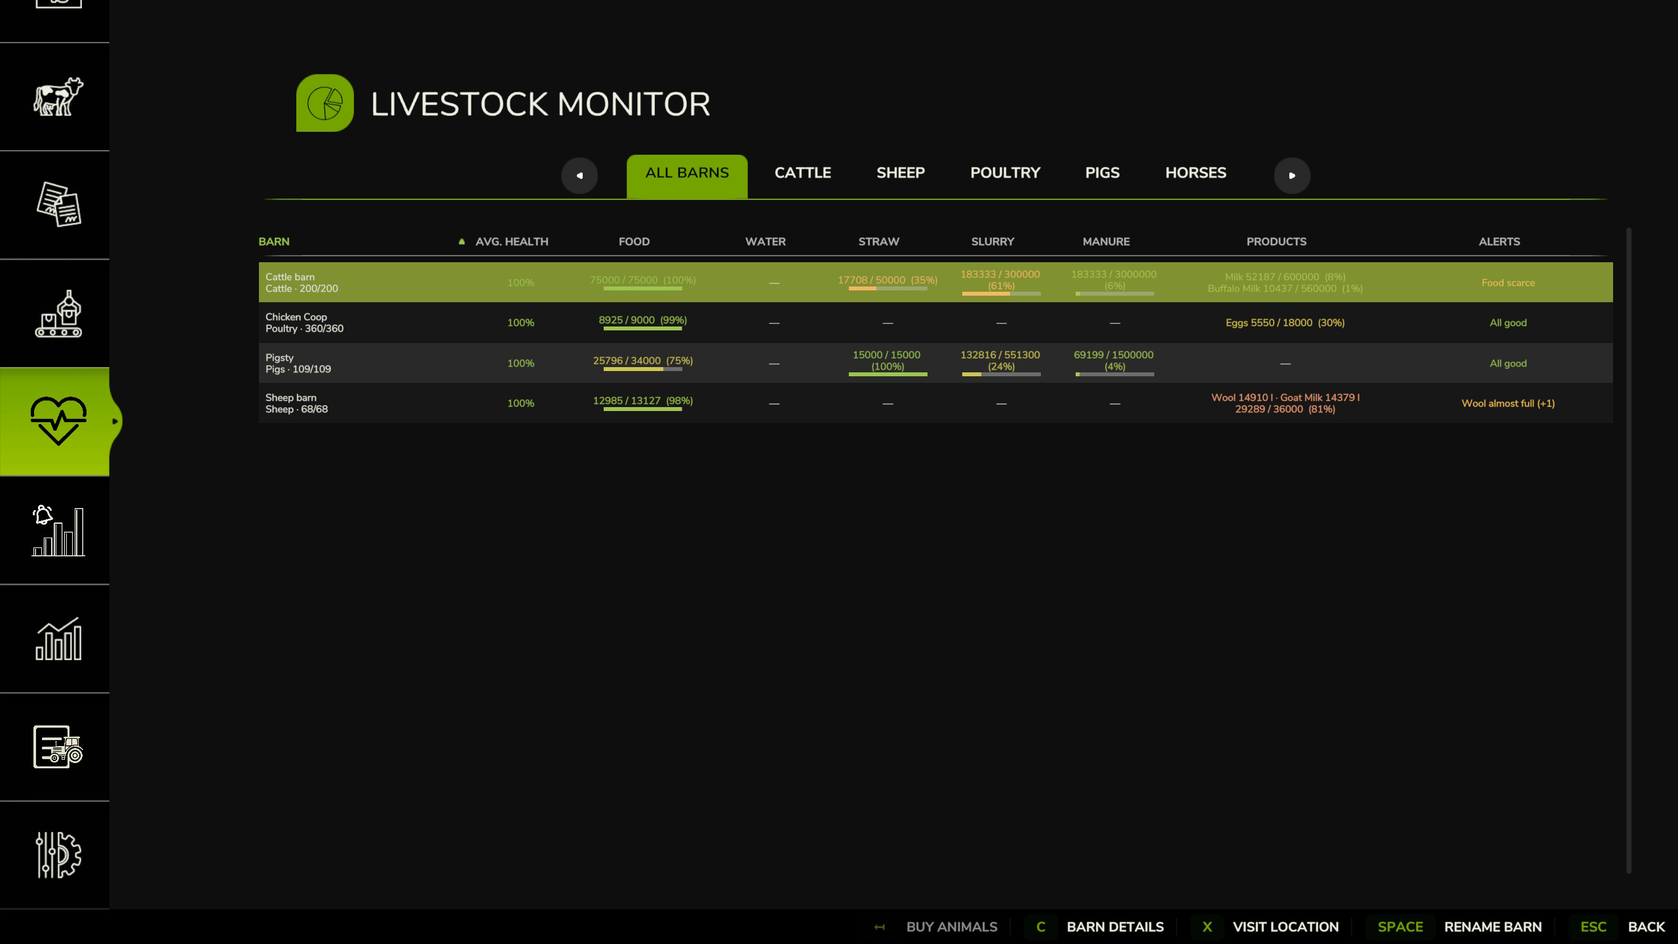
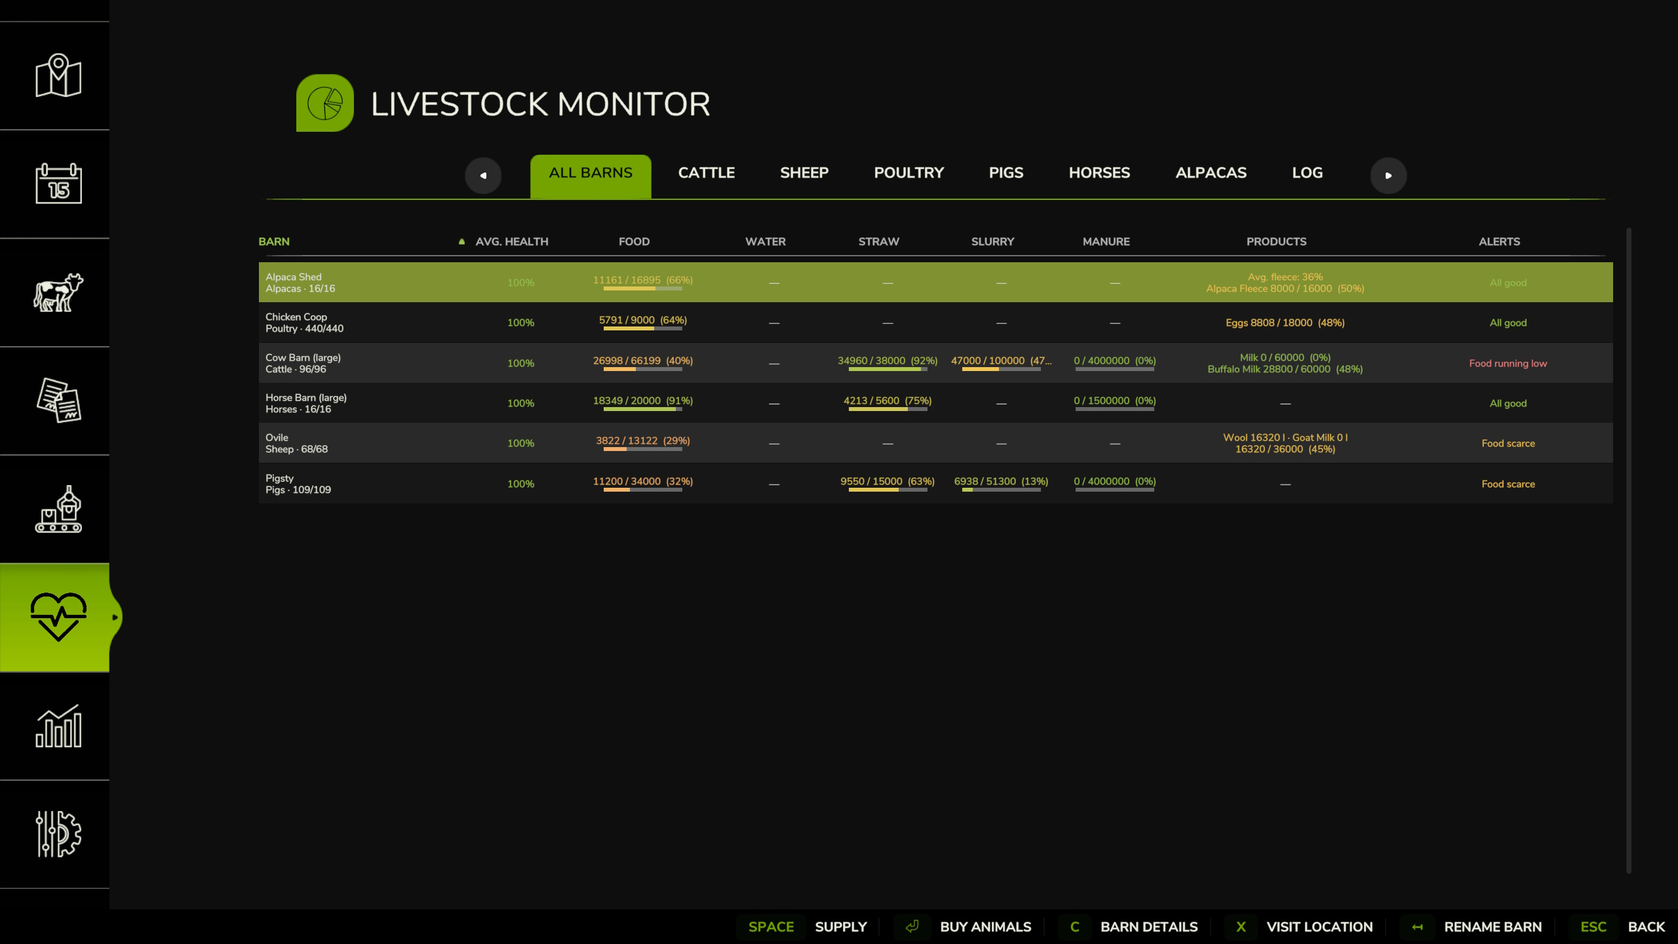
Update Livestock Monitor to v1.1.0.0 on website

diff --git a/livestockmonitor.html b/livestockmonitor.html
@@ -18,7 +18,7 @@
 <link rel="canonical" href="https://r3d3nt0r3.github.io/redentore-fs25-mods/livestockmonitor.html">
 <link href="https://fonts.googleapis.com/css2?family=Rajdhani:wght@400;600;700&family=Share+Tech+Mono&family=Exo+2:wght@300;400;600&display=swap" rel="stylesheet">
 <script type="application/ld+json">
-{"@context":"https://schema.org","@type":"SoftwareApplication","name":"Livestock Monitor FS25 Mod","operatingSystem":"Windows, macOS","applicationCategory":"GameApplication","author":{"@type":"Person","name":"Redentore"},"url":"https://r3d3nt0r3.github.io/redentore-fs25-mods/livestockmonitor.html","downloadUrl":"https://www.farming-simulator.com/mod.php?mod_id=367447&title=fs2025"}
+{"@context":"https://schema.org","@type":"SoftwareApplication","name":"Livestock Monitor FS25 Mod","operatingSystem":"Windows, macOS","applicationCategory":"GameApplication","author":{"@type":"Person","name":"Redentore"},"url":"https://r3d3nt0r3.github.io/redentore-fs25-mods/livestockmonitor.html","downloadUrl":"https://www.farming-simulator.com/mod.php?mod_id=367447&title=fs2025","softwareVersion":"1.1.0.0"}
 </script>
 <style>
 :root{--green:#a8ff00;--orange:#ff6600;--dark:#0a0d0a;--panel:#0f140f;--border:#2a3a2a;--text:#c8d8c0;--text-dim:#6a8a6a;}
@@ -38,6 +38,9 @@ body::before{content:'';position:fixed;top:0;left:0;right:0;bottom:0;background:
 .badge-row{display:flex;gap:12px;justify-content:center;flex-wrap:wrap;margin-bottom:48px;}
 .badge{font-family:'Share Tech Mono',monospace;font-size:11px;letter-spacing:0.2em;padding:6px 14px;border:1px solid var(--border);color:var(--text-dim);text-transform:uppercase;}
 .badge.green{border-color:rgba(168,255,0,0.4);color:var(--green);background:rgba(168,255,0,0.05);}
+.badge-link{text-decoration:none;transition:all 0.2s;}
+.badge-link:hover{background:rgba(168,255,0,0.15);border-color:var(--green);box-shadow:0 0 16px rgba(168,255,0,0.3);}
+html{scroll-behavior:smooth;}
 .modhub-btn{display:inline-flex;align-items:center;gap:12px;background:var(--green);color:#000;font-family:'Rajdhani',sans-serif;font-weight:700;font-size:18px;letter-spacing:0.15em;text-transform:uppercase;padding:16px 40px;text-decoration:none;transition:all 0.2s;clip-path:polygon(8px 0%,100% 0%,calc(100% - 8px) 100%,0% 100%);}
 .modhub-btn:hover{background:#fff;box-shadow:0 0 40px rgba(168,255,0,0.6);transform:translateY(-2px);}
 .container{max-width:1100px;margin:0 auto;padding:0 40px;}
@@ -85,9 +88,9 @@ footer p span{color:var(--green);}
 <header class="hero">
   <img src="img/livestockmonitor/icon.png" alt="Icona mod Livestock Monitor per Farming Simulator 25" class="hero-icon" width="120" height="120">
   <h1 class="hero-title">Livestock Monitor <span>FS25 Mod</span></h1>
-  <p class="hero-sub">Farming Simulator 25 &mdash; Script Mod &mdash; v1.0.0.0</p>
+  <p class="hero-sub">Farming Simulator 25 &mdash; Script Mod &mdash; v1.1.0.0</p>
   <div class="badge-row">
-    <span class="badge green">v1.0.0.0</span>
+    <a href="#changelog" class="badge green badge-link" title="View changelog v1.1.0.0">v1.1.0.0 &darr;</a>
     <span class="badge">Single Player</span>
     <span class="badge">7 Languages</span>
     <span class="badge">FS25</span>
@@ -103,31 +106,87 @@ footer p span{color:var(--green);}
       <div class="desc-panel" lang="en">
         <div class="lang">&#127468;&#127463; English</div>
         <p><strong style="color:#fff">Livestock Monitor &mdash; Complete Livestock Management Panel</strong></p>
-        <p>Livestock Monitor integrates directly into the Farming Simulator 25 in-game menu and gives players a comprehensive, real-time overview of all their livestock barns. Monitor health, food, water, straw, slurry, manure, and production at a glance &mdash; and act directly from the panel without ever leaving the interface.</p>
+        <p>Livestock Monitor integrates directly into the Farming Simulator 25 in-game menu and provides a comprehensive, real-time overview of all your barns: health, food, water, straw, slurry, manure, and production. Everything can be viewed and managed from the panel, without ever leaving the interface.</p>
         <ul>
-          <li><strong style="color:#fff">Full barn overview</strong> &mdash; Tab 1 shows all barns in a single table with dedicated columns for average health, food, water, straw, slurry, manure, active production, and alerts. Click any row to access rename, visit, buy, sell, and detail actions.</li>
-          <li><strong style="color:#fff">Per-species tabs</strong> &mdash; Tabs 2&ndash;6 (Cattle, Sheep, Poultry, Pigs, Horses) show individual animal clusters with breed, age, health, reproduction rate, productivity, and sale value. Animals at peak value blink green; aging animals blink red.</li>
-          <li><strong style="color:#fff">Two display modes</strong> &mdash; Choose between a draggable HUD panel, always visible on screen with live barn alerts updated every hour, or hourly alert mode, which sends a sound notification and on-screen message whenever a resource reaches a critical level &mdash; without keeping any permanent overlay on screen.</li>
+          <li><strong style="color:#fff">Full barn overview</strong> &mdash; Tab 1 shows all barns in a single table with dedicated columns for average health, food, water, straw, slurry, manure, production, and alerts. Click any row to access rename, visit, buy, sell, detail, and supply configuration actions.</li>
+          <li><strong style="color:#fff">Per-species tabs</strong> &mdash; Tabs 2&ndash;7 (Cattle, Sheep, Poultry, Pigs, Horses, Alpacas) show individual animal clusters with breed, age, health, reproduction rate, productivity, and sale value. Animals at peak value blink green; aging animals blink red. Header rows display a resource summary for each barn.</li>
+          <li><strong style="color:#fff">Automatic supply</strong> &mdash; Configure automatic resupply for each barn directly from the panel. Choose the mode (fixed schedule or free threshold), the pickup source (storages and silos, or also bales and pallets scattered across the map), and enable automatic purchasing when stocks run low. For each product, set a minimum threshold and target, with an estimated annual cost calculated in real time. Delivery cost varies based on the game&rsquo;s economic difficulty.</li>
+          <li><strong style="color:#fff">Delivery log</strong> &mdash; A dedicated tab shows the full history of all automatic deliveries, with in-game date and time, barn, product, quantity, and costs. Columns are sortable with a click on the header.</li>
+          <li><strong style="color:#fff">Two alert modes</strong> &mdash; Choose between a draggable HUD panel, always visible on screen with alerts updated every hour, or hourly alert mode, which sends a sound notification and on-screen message whenever a resource reaches a critical level &mdash; without keeping any permanent overlay on screen.</li>
           <li><strong style="color:#fff">Pre-sleep warning</strong> &mdash; Before going to sleep, the mod checks all barns and warns you if any resource will run out before you wake up, letting you decide whether to sleep or act first.</li>
           <li><strong style="color:#fff">Buy &amp; Sell dialogs</strong> &mdash; Buy animals directly from the panel with breed, age, and quantity spinners, live price breakdown and transport fee. Sell with quantity selection and net/gross price display.</li>
           <li><strong style="color:#fff">Barn Detail dialog</strong> &mdash; Full breakdown of a single barn: breeds present, production, food detail, extensions (manure heaps, silo extensions) with shared capacity and fill estimates.</li>
           <li><strong style="color:#fff">Advanced tooltips</strong> &mdash; Hover over any cell to see time-remaining estimates, rates, shared storage details, and contextual suggestions.</li>
-          <li><strong style="color:#fff">In-game settings</strong> &mdash; Display mode, HUD refresh rate, and sell-signal alerts toggle &mdash; all configurable from the standard game settings menu.</li>
+          <li><strong style="color:#fff">Beans &amp; Alpacas expansion compatibility</strong> &mdash; Full alpaca support: monitoring, buying, selling, shearing alerts, and wool growth tracking.</li>
+          <li><strong style="color:#fff">In-game settings</strong> &mdash; Display mode, HUD refresh rate, sell-signal alerts toggle, and automatic slurry/manure collection from all storages for field helpers &mdash; all configurable from the standard game settings menu.</li>
         </ul>
       </div>
       <div class="desc-panel" lang="it">
         <div class="lang">&#127470;&#127481; Italiano</div>
         <p><strong style="color:#fff">Livestock Monitor &mdash; Pannello Completo per la Gestione del Bestiame</strong></p>
-        <p>Livestock Monitor si integra direttamente nel men&ugrave; di gioco di Farming Simulator 25 e mette a disposizione del giocatore una panoramica completa e in tempo reale di tutte le stalle. Monitora salute, cibo, acqua, paglia, liquami, letame e produzione a colpo d&rsquo;occhio &mdash; e agisci direttamente dal pannello senza mai uscire dall&rsquo;interfaccia.</p>
+        <p>Livestock Monitor si integra direttamente nel men&ugrave; di gioco di Farming Simulator 25 e offre una panoramica completa e in tempo reale di tutte le stalle: salute, cibo, acqua, paglia, liquami, letame e produzione. Tutto consultabile e gestibile dal pannello, senza mai uscire dall&rsquo;interfaccia.</p>
         <ul>
-          <li><strong style="color:#fff">Panoramica di tutte le stalle</strong> &mdash; Il Tab 1 mostra tutte le stalle in una tabella con colonne dedicate a salute media, cibo, acqua, paglia, liquami, letame, produzione e avvisi. Cliccando su una riga si accede alle azioni di rinomina, visita, acquisto, vendita e dettaglio.</li>
-          <li><strong style="color:#fff">Tab per specie animale</strong> &mdash; I tab 2&ndash;6 (Bovini, Ovini, Pollame, Suini, Equini) mostrano i singoli cluster di animali con razza, et&agrave;, salute, tasso di riproduzione, produttivit&agrave; e valore di vendita. Gli animali al valore massimo lampeggiano verde; quelli in declino lampeggiano rosso.</li>
-          <li><strong style="color:#fff">Due modalit&agrave; di visualizzazione</strong> &mdash; Scegli tra il pannello HUD trascinabile, sempre visibile sullo schermo con gli avvisi aggiornati ogni ora, oppure la modalit&agrave; alert orari, che invia una notifica sonora e un messaggio a schermo ogni volta che una risorsa raggiunge una soglia critica &mdash; senza mantenere nessun overlay permanente sullo schermo.</li>
+          <li><strong style="color:#fff">Panoramica di tutte le stalle</strong> &mdash; Il Tab 1 mostra tutte le stalle in una tabella con colonne dedicate a salute media, cibo, acqua, paglia, liquami, letame, produzione e avvisi. Cliccando su una riga si accede alle azioni di rinomina, visita, acquisto, vendita, dettaglio e configurazione approvvigionamento.</li>
+          <li><strong style="color:#fff">Tab per specie animale</strong> &mdash; I tab 2&ndash;7 (Bovini, Ovini, Pollame, Suini, Equini, Alpaca) mostrano i singoli cluster di animali con razza, et&agrave;, salute, tasso di riproduzione, produttivit&agrave; e valore di vendita. Gli animali al valore massimo lampeggiano verde; quelli in declino lampeggiano rosso. Le righe header mostrano un riepilogo delle risorse di ogni stalla.</li>
+          <li><strong style="color:#fff">Approvvigionamento automatico</strong> &mdash; Configura il rifornimento automatico per ogni stalla direttamente dal pannello. Scegli la modalit&agrave; (orario fisso o soglia libera), la fonte di prelievo (depositi e silos, oppure anche balle e pallet sparsi nella mappa), e attiva l&rsquo;acquisto automatico quando le scorte non bastano. Per ogni prodotto imposta soglia minima e target, con stima del costo annuo calcolata in tempo reale. Il costo di consegna varia in base alla difficolt&agrave; economica della partita.</li>
+          <li><strong style="color:#fff">Registro consegne</strong> &mdash; Un tab dedicato mostra lo storico completo di tutte le consegne automatiche, con data e ora di gioco, stalla, prodotto, quantit&agrave; e costi. Le colonne sono ordinabili con un click sull&rsquo;intestazione.</li>
+          <li><strong style="color:#fff">Due modalit&agrave; di avviso</strong> &mdash; Scegli tra il pannello HUD trascinabile, sempre visibile sullo schermo con gli avvisi aggiornati ogni ora, oppure la modalit&agrave; alert orari, che invia una notifica sonora e un messaggio a schermo ogni volta che una risorsa raggiunge una soglia critica &mdash; senza mantenere nessun overlay permanente sullo schermo.</li>
           <li><strong style="color:#fff">Avviso pre-dormita</strong> &mdash; Prima di andare a dormire, la mod controlla tutte le stalle e avvisa se qualche risorsa si esaurir&agrave; prima del risveglio, permettendo di decidere se dormire o intervenire prima.</li>
           <li><strong style="color:#fff">Dialog acquisto e vendita</strong> &mdash; Acquista animali direttamente dal pannello con spinner per razza, et&agrave; e quantit&agrave;, riepilogo prezzi e tariffa di trasporto in tempo reale. Vendi con selezione della quantit&agrave; e visualizzazione di prezzo lordo e netto.</li>
           <li><strong style="color:#fff">Dialog dettaglio stalla</strong> &mdash; Riepilogo completo di una singola stalla: razze presenti, produzione, dettaglio cibo, estensioni collegate (concimaie, silo) con capacit&agrave; condivisa e stime di riempimento.</li>
           <li><strong style="color:#fff">Tooltip avanzati</strong> &mdash; Passando il mouse su qualsiasi cella vengono mostrate stime del tempo rimanente, tassi di consumo/produzione, dettagli sullo spazio condiviso e suggerimenti contestuali.</li>
-          <li><strong style="color:#fff">Impostazioni nel men&ugrave; di gioco</strong> &mdash; Modalit&agrave; di visualizzazione, frequenza di aggiornamento dell&rsquo;HUD e toggle per gli avvisi di vendita &mdash; tutto configurabile dal men&ugrave; impostazioni standard del gioco.</li>
+          <li><strong style="color:#fff">Compatibilit&agrave; espansione Beans &amp; Alpacas</strong> &mdash; Supporto completo per gli alpaca: monitoraggio, acquisto, vendita, avvisi tosatura e tracking crescita pelo.</li>
+          <li><strong style="color:#fff">Impostazioni nel men&ugrave; di gioco</strong> &mdash; Modalit&agrave; di visualizzazione, frequenza di aggiornamento dell&rsquo;HUD, toggle per gli avvisi di vendita e prelievo automatico liquami/letame da tutti i depositi per gli aiutanti nei campi &mdash; tutto configurabile dal men&ugrave; impostazioni standard del gioco.</li>
+        </ul>
+      </div>
+    </div>
+  </div>
+</section>
+<section id="changelog">
+  <div class="container">
+    <div class="section-label">Changelog</div>
+    <h2 class="section-title">Changelog v1.1.0.0</h2>
+    <div class="desc-grid">
+      <div class="desc-panel" lang="en">
+        <div class="lang">&#127468;&#127463; English</div>
+        <p><strong style="color:#fff">New features:</strong></p>
+        <ul>
+          <li>Added automatic supply: configure automatic resupply of food, straw, and water for each barn, with pickup from stock or purchase from the shop</li>
+          <li>Added worker management for alpacas and horses: shearing, grooming, walks, and rides configurable from the supply dialog</li>
+          <li>Added Beans &amp; Alpacas expansion compatibility: full alpaca support, with wool growth tracking and time to shearing</li>
+          <li>Added resource summary row in animal cluster tabs, showing food, water, straw, and product status for each barn</li>
+          <li>Added AI helper settings for slurry and manure: collect from all farm storages</li>
+          <li>Added available funds check in the animal purchase dialog</li>
+        </ul>
+        <p><strong style="color:#fff">Fixes:</strong></p>
+        <ul>
+          <li>Fixed inaccurate food and straw countdown with incomplete diet or extensions shared between barns</li>
+        </ul>
+        <p><strong style="color:#fff">Improvements:</strong></p>
+        <ul>
+          <li>Tooltips made more readable and expanded in animal tabs</li>
+          <li>Various internal optimizations</li>
+        </ul>
+      </div>
+      <div class="desc-panel" lang="it">
+        <div class="lang">&#127470;&#127481; Italiano</div>
+        <p><strong style="color:#fff">Nuove funzionalit&agrave;:</strong></p>
+        <ul>
+          <li>Aggiunta approvvigionamenti automatici: possibilit&agrave; di configurare il rifornimento automatico di cibo, paglia e acqua per ogni stalla, con prelievo dallo stock o acquisto dal negozio</li>
+          <li>Aggiunta gestione lavoratori per alpaca e cavalli: tosatura, toelettatura, passeggiate e cavalcate configurabili dal dialog degli approvvigionamenti</li>
+          <li>Aggiunta compatibilit&agrave; con l&rsquo;espansione Beans &amp; Alpacas: supporto completo per gli alpaca, con tracking della peluria e tempo alla tosatura</li>
+          <li>Aggiunta riga di riepilogo risorse nelle schede cluster animali, con lo stato di cibo, acqua, paglia e prodotti per ogni stalla</li>
+          <li>Aggiunte impostazioni aiutante IA per liquami e letame: preleva da tutti i depositi della fattoria</li>
+          <li>Aggiunto controllo fondi disponibili nel dialogo di acquisto animali</li>
+        </ul>
+        <p><strong style="color:#fff">Correzioni:</strong></p>
+        <ul>
+          <li>Corretto il countdown di cibo e paglia impreciso con dieta incompleta o estensioni condivise tra stalle</li>
+        </ul>
+        <p><strong style="color:#fff">Miglioramenti:</strong></p>
+        <ul>
+          <li>Tooltip resi pi&ugrave; leggibili e ampliati nelle schede animali</li>
+          <li>Varie ottimizzazioni interne</li>
         </ul>
       </div>
     </div>
@@ -139,35 +198,39 @@ footer p span{color:var(--green);}
     <h2 class="section-title">Screenshot della Mod in Gioco</h2>
     <div class="screenshots-grid">
       <div class="screenshot-item" onclick="openLightbox('img/livestockmonitor/screenshot0.jpg')">
-        <img src="img/livestockmonitor/screenshot0.jpg" alt="Livestock Monitor FS25 - panoramica di tutte le stalle nel tab riepilogativo" loading="lazy" width="640" height="360">
+        <img src="img/livestockmonitor/screenshot0.jpg" alt="Livestock Monitor FS25 - panoramica di tutte le stalle con tab Alpacas e Log" loading="lazy" width="640" height="360">
         <div class="caption">All Barns Overview</div>
       </div>
       <div class="screenshot-item" onclick="openLightbox('img/livestockmonitor/screenshot1.jpg')">
-        <img src="img/livestockmonitor/screenshot1.jpg" alt="Livestock Monitor FS25 - tab per specie con cluster animali per razza, età e valore" loading="lazy" width="640" height="360">
-        <div class="caption">Per-Species Tab</div>
+        <img src="img/livestockmonitor/screenshot1.jpg" alt="Livestock Monitor FS25 - configurazione approvvigionamento automatico per stalla con soglie e costo annuo" loading="lazy" width="640" height="360">
+        <div class="caption">Automatic Supply Configuration</div>
       </div>
       <div class="screenshot-item" onclick="openLightbox('img/livestockmonitor/screenshot2.jpg')">
-        <img src="img/livestockmonitor/screenshot2.jpg" alt="Livestock Monitor FS25 - pannello HUD trascinabile con avvisi stalle in tempo reale" loading="lazy" width="640" height="360">
-        <div class="caption">HUD Panel &mdash; Live Alerts</div>
+        <img src="img/livestockmonitor/screenshot2.jpg" alt="Livestock Monitor FS25 - gestione lavoratori per alpaca con tosatura e passeggiate" loading="lazy" width="640" height="360">
+        <div class="caption">Workers Management</div>
       </div>
       <div class="screenshot-item" onclick="openLightbox('img/livestockmonitor/screenshot3.jpg')">
-        <img src="img/livestockmonitor/screenshot3.jpg" alt="Livestock Monitor FS25 - dialogo acquisto animali con selezione razza, età e quantità" loading="lazy" width="640" height="360">
-        <div class="caption">Buy &amp; Sell Animals</div>
+        <img src="img/livestockmonitor/screenshot3.jpg" alt="Livestock Monitor FS25 - registro consegne automatiche con data, stalla, prodotto e costi" loading="lazy" width="640" height="360">
+        <div class="caption">Delivery Log</div>
       </div>
       <div class="screenshot-item" onclick="openLightbox('img/livestockmonitor/screenshot4.jpg')">
-        <img src="img/livestockmonitor/screenshot4.jpg" alt="Livestock Monitor FS25 - dettaglio stalla con produzione, cibo ed estensioni collegate" loading="lazy" width="640" height="360">
-        <div class="caption">Barn Detail</div>
+        <img src="img/livestockmonitor/screenshot4.jpg" alt="Livestock Monitor FS25 - tab Alpacas con cluster animali, peluria, riproduzione e valore" loading="lazy" width="640" height="360">
+        <div class="caption">Alpacas Tab</div>
       </div>
       <div class="screenshot-item" onclick="openLightbox('img/livestockmonitor/screenshot5.jpg')">
-        <img src="img/livestockmonitor/screenshot5.jpg" alt="Livestock Monitor FS25 - avviso pre-dormita con riepilogo criticità stalle" loading="lazy" width="640" height="360">
-        <div class="caption">Pre-Sleep Warning</div>
+        <img src="img/livestockmonitor/screenshot5.jpg" alt="Livestock Monitor FS25 - notifica avviso orario risorse stalla durante il gioco" loading="lazy" width="640" height="360">
+        <div class="caption">Hourly Alert</div>
+      </div>
+      <div class="screenshot-item" onclick="openLightbox('img/livestockmonitor/screenshot6.jpg')">
+        <img src="img/livestockmonitor/screenshot6.jpg" alt="Livestock Monitor FS25 - pannello HUD trascinabile con avvisi stalle in tempo reale" loading="lazy" width="640" height="360">
+        <div class="caption">HUD Panel &mdash; Live Alerts</div>
       </div>
     </div>
   </div>
 </section>
 </main>
 <footer>
-  <p>Made by <span>Redentore</span> &middot; Farming Simulator 25 &middot; <span>v1.0.0.0</span></p>
+  <p>Made by <span>Redentore</span> &middot; Farming Simulator 25 &middot; <span>v1.1.0.0</span></p>
 </footer>
 <div class="lightbox" id="lightbox" onclick="closeLightbox()">
   <div class="lightbox-close" onclick="closeLightbox()">&#10005; CLOSE</div>
@@ -183,7 +246,8 @@ const screenshots = [
   'img/livestockmonitor/screenshot2.jpg',
   'img/livestockmonitor/screenshot3.jpg',
   'img/livestockmonitor/screenshot4.jpg',
-  'img/livestockmonitor/screenshot5.jpg'
+  'img/livestockmonitor/screenshot5.jpg',
+  'img/livestockmonitor/screenshot6.jpg'
 ];
 let currentIndex = 0;
 function openLightbox(src) {

diff --git a/index.html b/index.html
@@ -116,13 +116,13 @@ footer p span{color:var(--green);}
           <div>
             <div class="mod-name">Livestock Monitor</div>
             <div class="mod-tags">
-              <span class="mod-tag green">v1.0.0.0</span>
+              <span class="mod-tag green">v1.1.0.0</span>
               <span class="mod-tag">Script Mod</span>
               <span class="mod-tag">FS25</span>
             </div>
           </div>
         </div>
-        <p class="mod-desc">&#127468;&#127463; Complete livestock management panel integrated in the game menu. Monitor all barns, buy and sell animals, HUD panel and hourly alerts.<br><br>&#127470;&#127481; Pannello completo di gestione bestiame integrato nel menu di gioco. Monitora tutte le stalle, acquista e vendi animali, HUD e avvisi orari.</p>
+        <p class="mod-desc">&#127468;&#127463; Complete livestock management panel integrated in the game menu. Monitor all barns, buy and sell animals, configure automatic supply for each barn, check the delivery log, and choose between draggable HUD and hourly alerts. Compatible with the Beans &amp; Alpacas expansion.<br><br>&#127470;&#127481; Pannello completo di gestione bestiame integrato nel menu di gioco. Monitora tutte le stalle, acquista e vendi animali, configura l&rsquo;approvvigionamento automatico per ogni stalla, consulta il registro consegne, e scegli tra HUD trascinabile e avvisi orari. Compatibile con l&rsquo;espansione Beans &amp; Alpacas.</p>
         <a href="livestockmonitor.html" class="mod-cta">View mod details</a>
       </div>
       <div class="mod-card">
